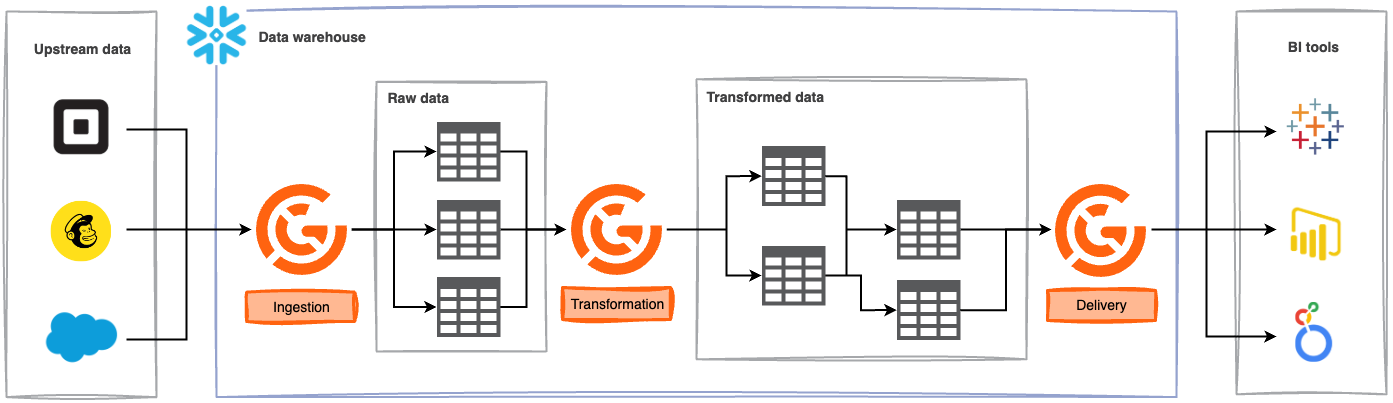
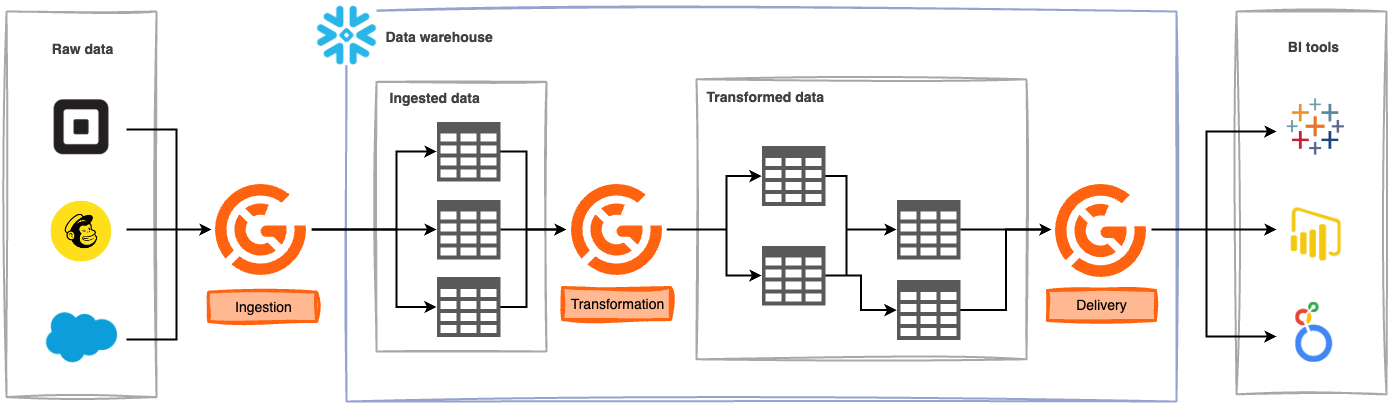
[DOCS] Move ingestion in diagram (#11329)

Pull request: [DOCS] Move ingestion in diagram
This issueless PR updates the  GX Cloud in your environment diagram as discussed in https://docs.google.com/document/d/10HYK_doZayqi79Gkpj4lDF4r0TgpoT_BrucCgiw18rY/edit?disco=AAABofrt12s 

- [ ] Description of PR changes above includes a link to [an existing GitHub issue](https://github.com/great-expectations/great_expectations/issues)
- [x] PR title is prefixed with one of: [BUGFIX], [FEATURE], [DOCS], [MAINTENANCE], [CONTRIB], [MINORBUMP]
- [ ] Code is linted - run `invoke lint` (uses `ruff format` + `ruff check`)
- [x] Appropriate tests and docs have been updated

For more information about contributing, visit our [community resources](https://docs.greatexpectations.io/docs/core/introduction/community_resources#contribute-code-or-documentation).

After you submit your PR, keep the page open and **monitor the statuses of the various checks made by our continuous integration process at the bottom of the page. Please fix any issues that come up** and [reach out on Slack](https://greatexpectations.io/slack) if you need help. Thanks for contributing!

diff --git a/docs/docusaurus/docs/cloud/overview/gx_cloud_overview.md b/docs/docusaurus/docs/cloud/overview/gx_cloud_overview.md
@@ -20,7 +20,7 @@ You can integrate GX Cloud at any point in your data pipeline to manage and moni
 
 Here’s an example of where these three common integration points fit in a generic data pipeline:
 
-![Incoming data from Square, Mailchimp, and Salesforce are validated by GX Cloud before being written as raw data in a Snowflake data warehouse. Transformations are validated within the Snowflake data pipeline. Finalized data is validated before being served by BI tools such as Tableau, Power BI, and Looker.](./overview_images/gx_cloud_pipeline.png)
+![Raw data from Square, Mailchimp, and Salesforce are validated by GX Cloud before being written to a Snowflake data warehouse. Transformations are validated within the Snowflake data pipeline. Finalized data is validated before being served by BI tools such as Tableau, Power BI, and Looker.](./overview_images/gx_cloud_pipeline.png)
 
 You can also integrate GX Cloud with version control systems and with data at rest. Common workflows that validate data outside the data pipeline include:
 